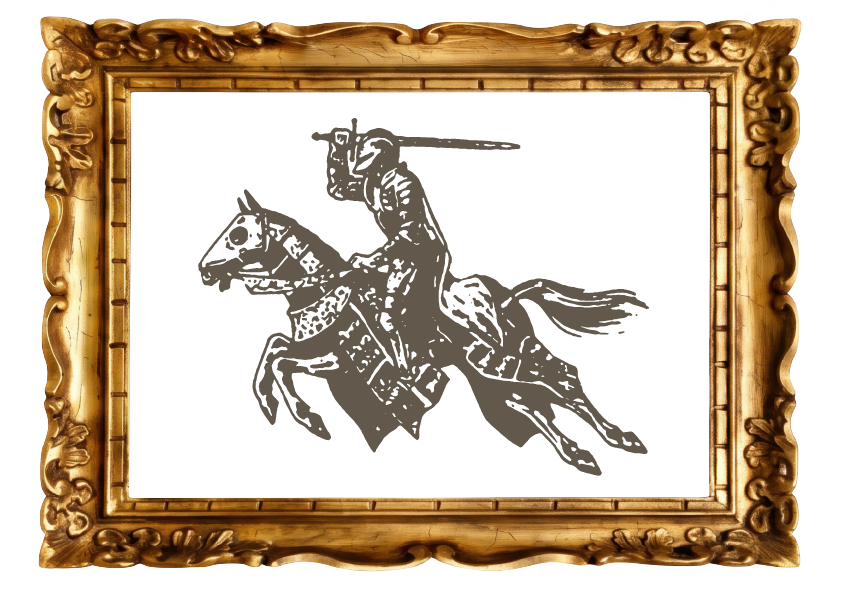
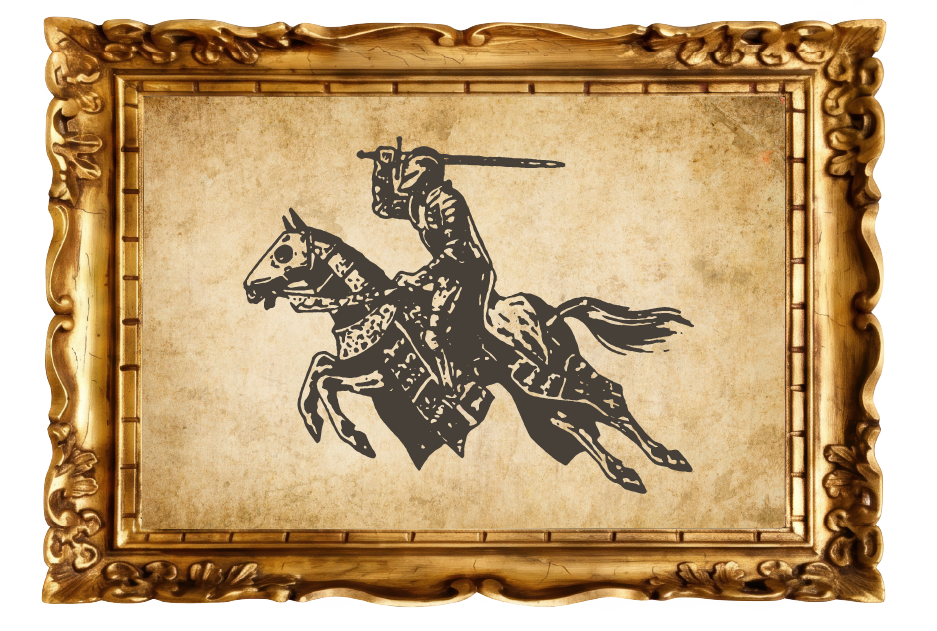
Added bg to hero image

diff --git a/style.css b/style.css
@@ -119,7 +119,8 @@
         justify-content: center;
         list-style: none;
         gap: var(--space-xl);
-        flex-wrap: wrap
+        flex-wrap: wrap;
+        padding-left: 0;
     }
 
     .main-nav-list a {
@@ -132,7 +133,7 @@
 
     .hero-image {
         margin-top: var(--space-lg);
-        max-height: 500px;
+        max-height: 600px;
     }
 
     .entrances-image-section figure {

diff --git a/index.html b/index.html
@@ -28,7 +28,7 @@
             </ul>
         </nav>
         <div class="hero-image">
-            <img src="images/hero-asset.png" alt="PLACEHOLDER" width="900" height="400">
+            <img src="images/hero-asset.png" alt="" width="900" height="550">
         </div>
     </header>
     <main>
